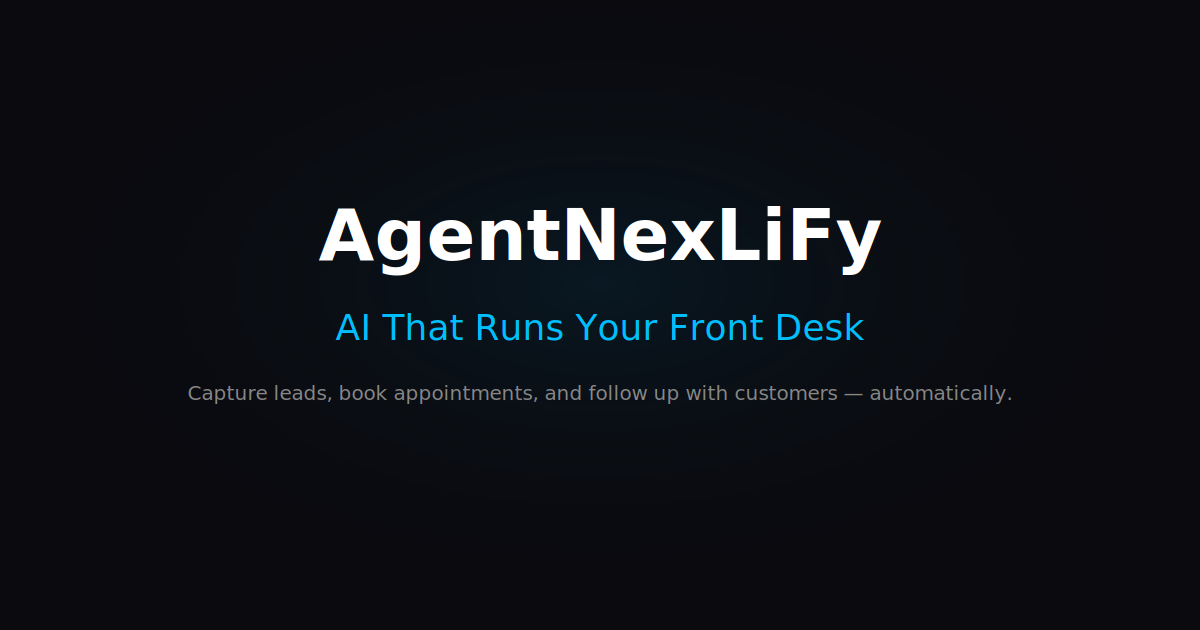
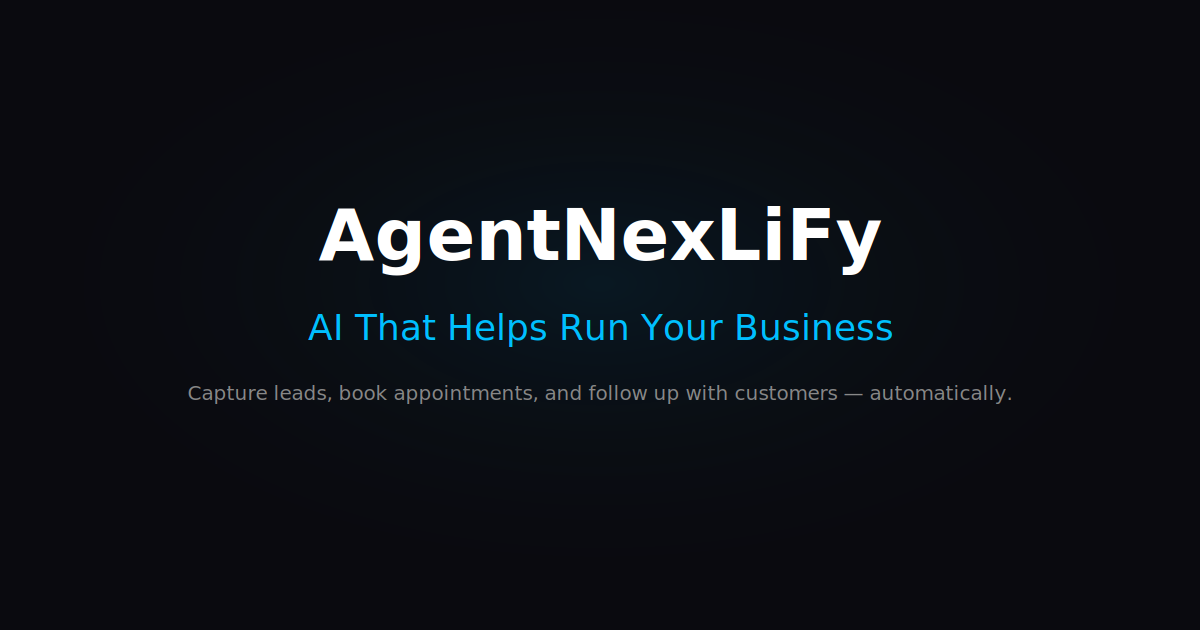
Update headline, restore removed sections, fix spacing
- Headline changed to "AI That Helps Run Your Business" everywhere
  (hero, og:title, twitter:title, <title>, og-image)
- Restored Trust Bar, How It Works, and See It In Action sections
- Restored nav links (Features, How It Works) and footer links
- Restored final CTA subtitle and note
- Fixed mobile spacing: 60px section padding (was 40px),
  kept original font sizes, proper gaps between cards
- Added trust bar and demo section CSS
- Kept: updated widget demo, "Get Started"/"Book a Demo" CTAs,
  "Cancel anytime", generous free tier, "FAQ" header, simplified
  feature card copy

Changed region(s): [[0.2467, 0.4825, 0.74, 0.5429]]

diff --git a/frontend/src/pages/Home.jsx b/frontend/src/pages/Home.jsx
@@ -4,6 +4,8 @@ import { Link } from "react-router-dom";
 import { trackEvent } from "../utils/analytics";
 import "../styles/home.css";
 
+const CALENDLY_URL = "https://calendly.com/aidanfernandes31/15-minute-agent-nexliffy-demo";
+
 /* Read email from JWT in localStorage (works outside AuthProvider) */
 function getUserEmail() {
   try {
@@ -154,7 +156,7 @@ export default function Home() {
   "name": "AgentNexLiFy",
   "url": "https://agentnexlify.com",
   "logo": "https://agentnexlify.com/logo.png",
-  "description": "AI that runs your front desk. Built for local businesses.",
+  "description": "AI that helps run your business. Built for local businesses.",
   "address": {
     "@type": "PostalAddress",
     "addressLocality": "Clemson",
@@ -175,7 +177,7 @@ export default function Home() {
   "name": "AgentNexLiFy",
   "applicationCategory": "BusinessApplication",
   "operatingSystem": "Web",
-  "description": "AI that runs your front desk. Built for local businesses.",
+  "description": "AI that helps run your business. Built for local businesses.",
   "url": "https://agentnexlify.com",
   "offers": [
     { "@type": "Offer", "name": "Free", "price": "0", "priceCurrency": "USD" },
@@ -221,6 +223,8 @@ export default function Home() {
           </a>
 
           <div className={`lp-nav-links${menuOpen ? " open" : ""}`}>
+            <a href="#features" onClick={closeMenu}>Features</a>
+            <a href="#how-it-works" onClick={closeMenu}>How It Works</a>
             <a href="#pricing" onClick={closeMenu}>Pricing</a>
             <a href="#faq" onClick={closeMenu}>FAQ</a>
           </div>
@@ -255,8 +259,8 @@ export default function Home() {
           <div className="lp-hero-inner">
             <div className="lp-hero-text">
               <h1 className="reveal">
-                AI That Runs Your{" "}
-                <span className="accent-gradient">Front Desk</span>
+                AI That Helps Run Your{" "}
+                <span className="accent-gradient">Business</span>
               </h1>
               <p className="lp-hero-sub reveal">
                 Capture leads, book appointments, and follow up with customers &mdash; automatically.
@@ -308,10 +312,71 @@ export default function Home() {
         </div>
       </section>
 
+      {/* ============ TRUST BAR ============ */}
+      <section className="lp-trust">
+        <div className="container">
+          <p className="lp-trust-label reveal">Works with the tools you already use</p>
+          <div className="lp-trust-logos reveal">
+            <svg viewBox="0 0 24 24" aria-label="Gmail">
+              <path d="M24 5.457v13.909c0 .904-.732 1.636-1.636 1.636h-3.819V11.73L12 16.64l-6.545-4.91v9.273H1.636A1.636 1.636 0 0 1 0 19.366V5.457c0-2.023 2.309-3.178 3.927-1.964L5.455 4.64 12 9.548l6.545-4.91 1.528-1.145C21.69 2.28 24 3.434 24 5.457z" />
+            </svg>
+            <svg viewBox="0 0 24 24" aria-label="Google Calendar">
+              <path d="M18.316 5.684H24v12.632h-5.684V5.684zM5.684 24h12.632v-5.684H5.684V24zM18.316 5.684V0H5.684v5.684h12.632zM5.684 18.316H0V5.684h5.684v12.632zM7.953 14.39l1.478-1.149c.543.49 1.142.735 1.797.735.654 0 1.108-.254 1.108-.815 0-.462-.336-.735-1.01-.998l-.736-.287c-1.087-.42-1.621-1.109-1.621-2.098 0-1.314 1.034-2.197 2.507-2.197.922 0 1.72.342 2.274.943l-1.264 1.155c-.385-.336-.77-.504-1.176-.504-.44 0-.748.222-.748.598 0 .368.253.586.849.81l.748.288c1.216.468 1.785 1.108 1.785 2.24 0 1.351-1.064 2.344-2.67 2.344-1.143 0-2.07-.434-2.72-1.264l.4-.8z" />
+            </svg>
+            <svg viewBox="0 0 24 24" aria-label="HubSpot">
+              <path d="M18.164 7.93V5.084a2.198 2.198 0 0 0 1.267-1.984v-.066a2.2 2.2 0 0 0-2.198-2.198h-.066a2.2 2.2 0 0 0-2.198 2.198v.066c0 .865.506 1.61 1.233 1.966v2.862a5.662 5.662 0 0 0-2.905 1.384l-7.666-5.97a2.39 2.39 0 0 0 .072-.563 2.413 2.413 0 1 0-2.413 2.413c.437 0 .842-.122 1.2-.325l7.544 5.876a5.668 5.668 0 0 0-.478 2.279 5.681 5.681 0 0 0 .565 2.47l-2.262 2.263a1.88 1.88 0 0 0-.573-.097 1.902 1.902 0 1 0 1.901 1.901c0-.2-.035-.39-.092-.572l2.235-2.235a5.686 5.686 0 0 0 3.45 1.17h.002a5.69 5.69 0 1 0 0-11.38 5.69 5.69 0 0 0-2.576.612l-.062.033zm.062 8.151h-.002a2.843 2.843 0 1 1 .002 0z" />
+            </svg>
+            <svg viewBox="0 0 24 24" aria-label="Salesforce">
+              <path d="M10.006 5.415a4.195 4.195 0 0 1 3.045-1.306c1.56 0 2.954.9 3.69 2.205a4.89 4.89 0 0 1 2.013-.432c2.735 0 4.952 2.23 4.952 4.98s-2.217 4.98-4.952 4.98a4.937 4.937 0 0 1-.765-.06 3.469 3.469 0 0 1-3.089 1.913 3.469 3.469 0 0 1-1.48-.332 4.14 4.14 0 0 1-3.783 2.47 4.14 4.14 0 0 1-3.682-2.25 3.596 3.596 0 0 1-.61.053c-1.987 0-3.598-1.62-3.598-3.618a3.61 3.61 0 0 1 1.487-2.918A4.39 4.39 0 0 1 3 9.09c0-2.442 1.976-4.42 4.414-4.42 1.466 0 2.632.604 3.592 1.745z" />
+            </svg>
+            <svg viewBox="0 0 24 24" aria-label="Slack">
+              <path d="M5.042 15.165a2.528 2.528 0 0 1-2.52 2.523A2.528 2.528 0 0 1 0 15.165a2.527 2.527 0 0 1 2.522-2.52h2.52v2.52zm1.271 0a2.527 2.527 0 0 1 2.521-2.52 2.527 2.527 0 0 1 2.521 2.52v6.313A2.528 2.528 0 0 1 8.834 24a2.528 2.528 0 0 1-2.521-2.522v-6.313zM8.834 5.042a2.528 2.528 0 0 1-2.521-2.52A2.528 2.528 0 0 1 8.834 0a2.528 2.528 0 0 1 2.521 2.522v2.52H8.834zm0 1.271a2.528 2.528 0 0 1 2.521 2.521 2.528 2.528 0 0 1-2.521 2.521H2.522A2.528 2.528 0 0 1 0 8.834a2.528 2.528 0 0 1 2.522-2.521h6.312zm10.122 2.521a2.528 2.528 0 0 1 2.522-2.521A2.528 2.528 0 0 1 24 8.834a2.528 2.528 0 0 1-2.522 2.521h-2.522V8.834zm-1.268 0a2.528 2.528 0 0 1-2.523 2.521 2.527 2.527 0 0 1-2.52-2.521V2.522A2.527 2.527 0 0 1 15.165 0a2.528 2.528 0 0 1 2.523 2.522v6.312zm-2.523 10.122a2.528 2.528 0 0 1 2.523 2.522A2.528 2.528 0 0 1 15.165 24a2.527 2.527 0 0 1-2.52-2.522v-2.522h2.52zm0-1.268a2.527 2.527 0 0 1-2.52-2.523 2.526 2.526 0 0 1 2.52-2.52h6.313A2.527 2.527 0 0 1 24 15.165a2.528 2.528 0 0 1-2.522 2.523h-6.313z" />
+            </svg>
+            <svg viewBox="0 0 24 24" aria-label="QuickBooks">
+              <path d="M12 0C5.372 0 0 5.372 0 12s5.372 12 12 12 12-5.372 12-12S18.628 0 12 0zm5.723 16.17h-1.807c0 1.268-1.027 2.297-2.294 2.297v-1.81c0-2.049-.006-4.098.003-6.147.003-.596-.003-1.057-.699-1.286-.938-.31-1.89.37-1.89 1.382.004 2.037.001 4.074.002 6.11v1.75h-1.81c0 1.268-1.026 2.297-2.293 2.297V7.833h1.81c0-1.27 1.026-2.297 2.293-2.297v1.81c0 2.048.006 4.097-.003 6.146-.003.596.003 1.058.699 1.287.938.309 1.89-.371 1.89-1.383-.004-2.037-.001-4.074-.002-6.11v-1.75h1.808c0-1.27 1.026-2.298 2.293-2.298V16.17z" />
+            </svg>
+          </div>
+        </div>
+      </section>
+
+      {/* ============ HOW IT WORKS ============ */}
+      <section className="section" id="how-it-works">
+        <div className="container">
+          <div className="lp-how-header">
+            <div className="section-label reveal">How It Works</div>
+            <h2 className="section-title reveal">Up and running in minutes.</h2>
+          </div>
+          <div className="lp-how-steps">
+            <div className="lp-how-step reveal">
+              <div className="lp-how-step-num">1</div>
+              <h3>Connect Your Business</h3>
+              <p>
+                Set up your profile, services, and preferences in minutes. Works with the tools you already use.
+              </p>
+            </div>
+            <div className="lp-how-step reveal">
+              <div className="lp-how-step-num">2</div>
+              <h3>AI Takes Over</h3>
+              <p>
+                Your AI agent handles leads, follow-ups, bookings, and customer questions automatically.
+              </p>
+            </div>
+            <div className="lp-how-step reveal">
+              <div className="lp-how-step-num">3</div>
+              <h3>You Close Deals</h3>
+              <p>
+                Focus on the work that matters while AI handles the rest. Qualified leads land in your dashboard with scores and full history.
+              </p>
+            </div>
+          </div>
+        </div>
+      </section>
+
       {/* ============ FEATURES ============ */}
       <section className="section" id="features" style={{ background: "var(--bg-secondary)" }}>
         <div className="container">
           <div className="lp-features-header">
+            <div className="section-label reveal">Features</div>
             <h2 className="section-title reveal">Everything your front desk needs.</h2>
           </div>
           <div className="lp-features-grid">
@@ -356,6 +421,27 @@ export default function Home() {
               </div>
               <h3>Email Sequences</h3>
               <p>Hands-free email campaigns that keep your leads warm.</p>
+            </div>
+          </div>
+        </div>
+      </section>
+
+      {/* ============ DEMO ============ */}
+      <section className="section lp-demo" id="demo">
+        <div className="container">
+          <div className="lp-demo-inner">
+            <div className="section-label reveal">See It In Action</div>
+            <h2 className="section-title reveal">See it work on a real website.</h2>
+            <p className="section-subtitle reveal">
+              Watch how a local business uses Agent NexLiFy to book appointments and capture leads around the clock.
+            </p>
+            <div className="lp-demo-cta-block reveal">
+              <a href={CALENDLY_URL} className="btn-primary" target="_blank" rel="noopener noreferrer">
+                Book a Live Demo {"\u2192"}
+              </a>
+              <Link to="/free-widget" className="btn-secondary">
+                Or try the free version on your site {"\u2192"}
+              </Link>
             </div>
           </div>
         </div>
@@ -518,6 +604,9 @@ export default function Home() {
       <section className="lp-cta-section" id="cta">
         <div className="container lp-cta-content">
           <h2 className="section-title reveal">Ready to stop missing leads?</h2>
+          <p className="section-subtitle reveal">
+            Start automating your business today. No credit card required.
+          </p>
           <div className="lp-cta-buttons reveal">
             <Link to="/signup" className="btn-primary">
               Get Started {"\u2192"}
@@ -526,6 +615,7 @@ export default function Home() {
               Book a Demo
             </Link>
           </div>
+          <p className="lp-cta-note reveal">Free forever plan. No credit card. Cancel anytime.</p>
         </div>
       </section>
 
@@ -535,7 +625,7 @@ export default function Home() {
           <div className="lp-footer-inner">
             <div className="lp-footer-brand">
               <img src="/logo.png" alt="Agent NexLiFy Logo" className="lp-footer-brand-logo" />
-              <p>AI that runs your front desk. Built for local businesses.</p>
+              <p>AI that helps run your business. Built for local businesses.</p>
             </div>
             <div className="lp-footer-col">
               <h4>Product</h4>
@@ -543,13 +633,15 @@ export default function Home() {
                 <li><a href="#features">Features</a></li>
                 <li><a href="#pricing">Pricing</a></li>
                 <li><a href="#faq">FAQ</a></li>
+                <li><Link to="/free-widget">Free AI Widget</Link></li>
               </ul>
             </div>
             <div className="lp-footer-col">
               <h4>Company</h4>
               <ul>
+                <li><a href="#how-it-works">How It Works</a></li>
                 <li><Link to="/contact">Contact</Link></li>
-                <li><Link to="/contact">Book a Demo</Link></li>
+                <li><a href={CALENDLY_URL} target="_blank" rel="noopener noreferrer">Book a Demo</a></li>
               </ul>
             </div>
             <div className="lp-footer-col">

diff --git a/frontend/src/styles/home.css b/frontend/src/styles/home.css
@@ -581,6 +581,49 @@
 
 
 /* ============================================
+   TRUST BAR
+   ============================================ */
+.landing-page .lp-trust {
+  padding: 48px 0;
+  text-align: center;
+  border-top: 1px solid var(--border);
+  border-bottom: 1px solid var(--border);
+}
+
+.landing-page .lp-trust-label {
+  font-size: 13px;
+  font-weight: 500;
+  color: var(--text-muted);
+  letter-spacing: 0.5px;
+  margin-bottom: 24px;
+}
+
+.landing-page .lp-trust-logos {
+  display: flex;
+  align-items: center;
+  justify-content: center;
+  gap: 40px;
+  flex-wrap: wrap;
+}
+
+.landing-page .lp-trust-logos svg {
+  height: 24px;
+  width: auto;
+  opacity: 0.35;
+  transition: opacity 0.3s;
+  fill: var(--text-secondary);
+}
+
+.landing-page .lp-trust-logos svg:hover {
+  opacity: 0.7;
+}
+
+@media (max-width: 480px) {
+  .landing-page .lp-trust-logos { gap: 24px; }
+  .landing-page .lp-trust-logos svg { height: 20px; }
+}
+
+/* ============================================
    HOW IT WORKS
    ============================================ */
 .landing-page .lp-how-header {
@@ -710,6 +753,32 @@
   .landing-page .lp-features-grid { grid-template-columns: 1fr; }
 }
 
+
+/* ============================================
+   DEMO
+   ============================================ */
+.landing-page .lp-demo {
+  background: var(--bg-secondary);
+}
+
+.landing-page .lp-demo-inner {
+  text-align: center;
+  max-width: 800px;
+  margin: 0 auto;
+}
+
+.landing-page .lp-demo-inner .section-subtitle {
+  margin: 0 auto 40px;
+  text-align: center;
+}
+
+.landing-page .lp-demo-cta-block {
+  display: flex;
+  gap: 16px;
+  justify-content: center;
+  flex-wrap: wrap;
+  margin-top: 40px;
+}
 
 /* ============================================
    PRICING
@@ -1115,20 +1184,11 @@
    ============================================ */
 @media (max-width: 768px) {
   .landing-page .section {
-    padding: 40px 0;
+    padding: 60px 0;
   }
 
   .landing-page .lp-hero {
-    padding: 100px 0 40px;
-  }
-
-  .landing-page .lp-hero h1 {
-    font-size: 28px;
-  }
-
-  .landing-page .lp-hero-sub {
-    font-size: 16px;
-    margin-bottom: 24px;
+    padding: 120px 0 60px;
   }
 
   .landing-page .lp-hero-buttons {
@@ -1145,46 +1205,11 @@
   }
 
   .landing-page .widget-mockup {
-    max-width: 320px;
+    max-width: 340px;
   }
-
-  .landing-page .widget-mockup-body {
-    min-height: 220px;
-    padding: 12px;
-  }
-
-  .landing-page .section-title {
-    font-size: 24px;
-  }
-
-  .landing-page .section-subtitle {
-    font-size: 15px;
-  }
-
-  .landing-page .lp-features-grid {
-    grid-template-columns: 1fr;
-    gap: 12px;
-  }
-
-  .landing-page .lp-feature-card {
-    padding: 24px 20px;
-  }
-
-  .landing-page .lp-pricing-grid {
-    grid-template-columns: 1fr;
-    max-width: 400px;
-    margin: 0 auto;
-    gap: 16px;
-  }
-
-  .landing-page .lp-pricing-card {
-    padding: 24px 20px;
-  }
-
-  .landing-page .lp-pricing-card.popular { order: -1; }
 
   .landing-page .lp-cta-section {
-    padding: 40px 0;
+    padding: 60px 0;
   }
 
   .landing-page .lp-cta-buttons {
@@ -1201,7 +1226,7 @@
   }
 
   .landing-page .lp-footer {
-    padding: 40px 0 24px;
+    padding: 48px 0 28px;
   }
 }
 

diff --git a/frontend/index.html b/frontend/index.html
@@ -3,10 +3,10 @@
   <head>
     <meta charset="UTF-8" />
     <meta name="viewport" content="width=device-width, initial-scale=1.0" />
-    <title>AgentNexLiFy — AI That Runs Your Front Desk</title>
+    <title>AgentNexLiFy — AI That Helps Run Your Business</title>
     <meta name="description" content="Capture leads, book appointments, and follow up with customers — automatically." />
     <!-- Open Graph -->
-    <meta property="og:title" content="AgentNexLiFy — AI That Runs Your Front Desk" />
+    <meta property="og:title" content="AgentNexLiFy — AI That Helps Run Your Business" />
     <meta property="og:description" content="Capture leads, book appointments, and follow up with customers — automatically." />
     <meta property="og:image" content="https://app.agentnexlify.com/og-image.png" />
     <meta property="og:url" content="https://www.agentnexlify.com" />
@@ -14,7 +14,7 @@
     <meta property="og:site_name" content="AgentNexLiFy" />
     <!-- Twitter Card -->
     <meta name="twitter:card" content="summary_large_image" />
-    <meta name="twitter:title" content="AgentNexLiFy — AI That Runs Your Front Desk" />
+    <meta name="twitter:title" content="AgentNexLiFy — AI That Helps Run Your Business" />
     <meta name="twitter:description" content="Capture leads, book appointments, and follow up with customers — automatically." />
     <meta name="twitter:image" content="https://app.agentnexlify.com/og-image.png" />
     <link rel="preconnect" href="https://fonts.googleapis.com" />
